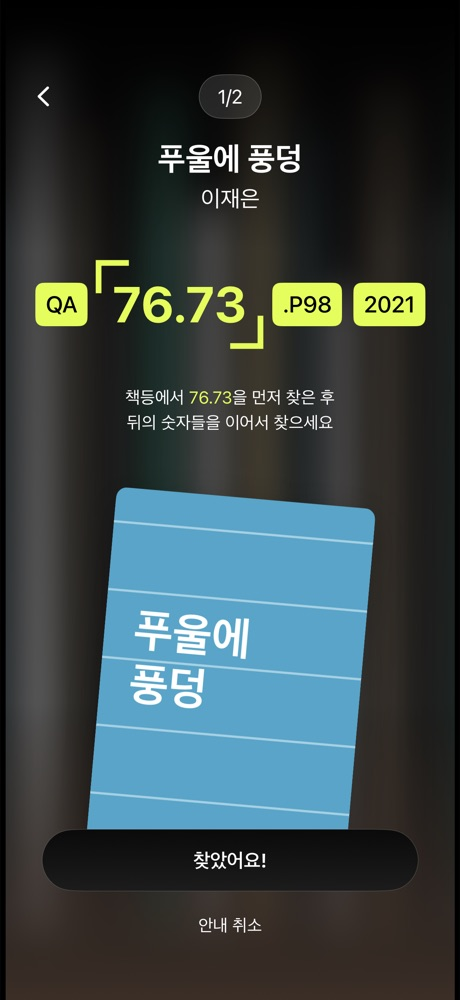
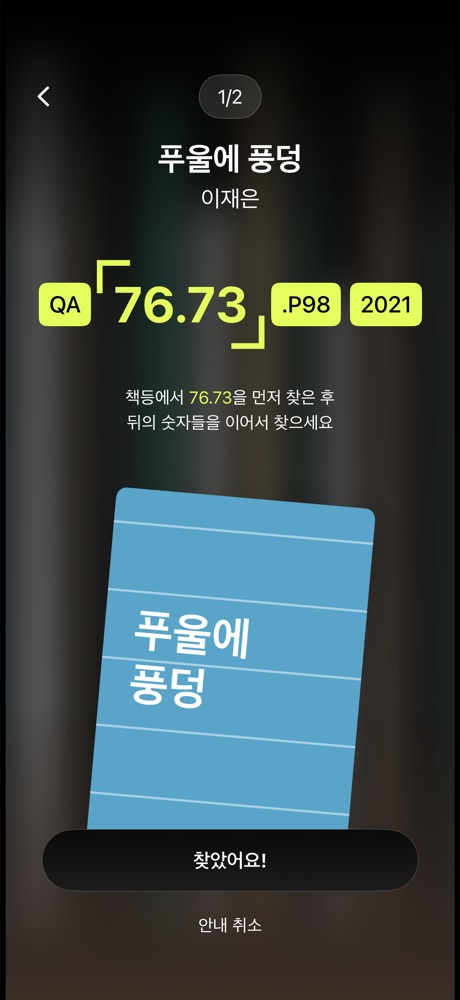
fix(ui): 도착 청구기호 가로 배치 유지
Refs #133

Changed region(s): [[0.5478, 0.279, 0.9435, 0.341], [0.2739, 0.279, 0.5478, 0.341], [0.0609, 0.248, 0.2435, 0.341]]

diff --git a/IndoorMapTests/BookNavigationArrivalScreenTests.swift b/IndoorMapTests/BookNavigationArrivalScreenTests.swift
@@ -40,29 +40,40 @@ extension IndoorMapSerialTests {
             }
             try image.pngData()?.write(to: FileManager.default.temporaryDirectory
                 .appendingPathComponent("issue133-\(scenario).png"))
-            let text = try await recognizedText(image)
+            let regions = try await recognizedText(image)
+            let text = regions.map(\.text).joined()
             #expect(text.contains("찾았어요"))
             if scenario == "missing" {
                 #expect(text.contains("청구기호확인필요"))
                 #expect(text.contains("367-A"))
-            } else if scenario != "large-text", scenario != "last" {
-                #expect(text.contains("76.73"))
-                #expect(text.contains("P98"))
-                #expect(text.contains("2021"))
+            } else if scenario != "last" {
+                let markers = ["76.73", "P98", "2021"]
+                let centers = try markers.map { marker in
+                    try #require(regions.first { $0.text.contains(marker) }, "청구기호의 \(marker)가 표시되어야 합니다").bounds.midY
+                }
+                #expect(try #require(centers.max()) - #require(centers.min()) < 0.025,
+                        "청구기호의 모든 요소가 같은 가로줄에 있어야 합니다")
             }
             if isMultiple { #expect(text.contains(scenario == "last" ? "2/2" : "1/2")) }
             else { #expect(!text.contains("1/1")) }
         }
 
         @concurrent
-        private func recognizedText(_ image: UIImage) async throws -> String {
+        private func recognizedText(_ image: UIImage) async throws -> [RecognizedRegion] {
             let request = VNRecognizeTextRequest()
             request.recognitionLevel = .accurate
             request.recognitionLanguages = ["ko-KR", "en-US"]
             request.usesLanguageCorrection = false
             try VNImageRequestHandler(cgImage: #require(image.cgImage), options: [:]).perform([request])
-            return String((request.results ?? []).compactMap { $0.topCandidates(1).first?.string }.joined()
-                .filter { !$0.isWhitespace })
+            return (request.results ?? []).compactMap { observation in
+                guard let value = observation.topCandidates(1).first?.string else { return nil }
+                return RecognizedRegion(text: String(value.filter { !$0.isWhitespace }), bounds: observation.boundingBox)
+            }
+        }
+
+        private struct RecognizedRegion: Sendable {
+            let text: String
+            let bounds: CGRect
         }
 
         /// 네트워크 없이 표지의 로딩·비율·회전을 확인하는 테스트 전용 이미지다.

diff --git a/fingerprint-library/Features/IndoorMap/BookNavigationArrivalView.swift b/fingerprint-library/Features/IndoorMap/BookNavigationArrivalView.swift
@@ -128,6 +128,8 @@ struct BookNavigationArrivalView: View {
                         Text(rawValue)
                             .font(.title2.bold())
                             .foregroundStyle(BookNavigationPalette.accent)
+                            .lineLimit(1)
+                            .minimumScaleFactor(0.4)
                             .fixedSize(horizontal: false, vertical: true)
                     }
                 }
@@ -138,21 +140,13 @@ struct BookNavigationArrivalView: View {
     }
 
     private func callNumber(_ number: BookNavigationArrivalCallNumber) -> some View {
-        ViewThatFits(in: .horizontal) {
-            HStack(spacing: 10) {
-                chip(number.classification)
-                highlightedNumber(number.number)
-                suffixChips(number)
-            }
-            .fixedSize(horizontal: true, vertical: false)
-            VStack(spacing: 12) {
-                chip(number.classification)
-                highlightedNumber(number.number)
-                    .minimumScaleFactor(0.5)
-                    .lineLimit(1)
-                suffixChips(number)
-            }
+        HStack(spacing: 8) {
+            chip(number.classification)
+            highlightedNumber(number.number)
+            suffixChips(number)
         }
+        .lineLimit(1)
+        .minimumScaleFactor(0.4)
         .accessibilityElement(children: .ignore)
         .accessibilityLabel("청구기호 \(number.rawValue)")
     }

diff --git a/Docs/BookNavigationArrival.md b/Docs/BookNavigationArrival.md
@@ -7,7 +7,7 @@
 - 사용자가 확인한 문구에 따라 중간 책도 **찾았어요!**로 표시한다. 중간 책은 기존 `onContinue`, 마지막 책은 기존 `onFinish`로 연결한다.
 - 중간 책의 안내 취소는 하단 보조 버튼으로 배치한다. 뒤로가기는 진행 중인 길안내 화면으로 복귀한다.
 - 청구기호는 `BookNavigationBookInfo`가 현재 서가와 대조한 소장본만 사용한다. 형식이 다르면 원문을 표시하고, 정보가 없으면 확인 필요 상태를 표시한다.
-- 긴 정보·작은 화면·큰 글씨에서는 세로 배치와 스크롤로 모든 정보를 확인할 수 있다. 하단 행동 버튼은 고정한다.
+- 청구기호의 분류·숫자·나머지 기호는 작은 화면과 큰 글씨에서도 한 가로줄을 유지하며 너비에 맞게 글자를 축소한다. 나머지 긴 정보는 세로 스크롤로 확인한다. 하단 행동 버튼은 고정한다.
 
 서가 배경은 원본 사진 에셋이 제공되지 않아 SwiftUI Canvas로 책등을 그리고 흐림·그라디언트를 적용했다.
 표지는 기존 `BookCoverView`를 사용한다. 아래 캡처의 파란 표지는 외부 네트워크 없이 검증하기 위해 그린 **테스트 전용 이미지**다.
@@ -16,13 +16,15 @@
 | --- | --- |
 | ![단권](Screenshots/BookNavigationArrival/single.jpg) | ![여러 권](Screenshots/BookNavigationArrival/multiple.jpg) |
 
+[320pt 너비에서도 유지되는 가로 배치](Screenshots/BookNavigationArrival/compact.jpg)
+
 ## 검증
 
 iPhone 18 Pro / iOS 27.0 시뮬레이터에서 확인했다.
 
 - `BookNavigationArrivalCallNumberTests`: 분류·숫자·나머지 기호 보존 5건, 구조를 알 수 없는 값 5건.
 - `BookNavigationBookInfoTests`: 서가별 소장본 필터링, 누락 정보, 유효하지 않은 인덱스 3개 테스트.
-- `BookNavigationArrivalScreenTests`: 단권, 중간, 마지막, 청구기호 누락, 320×568, 접근성 글씨 크기 6개 상태의 렌더링·문자 표시 확인.
+- `BookNavigationArrivalScreenTests`: 단권, 중간, 마지막, 청구기호 누락, 320×568, 접근성 글씨 크기 6개 상태의 렌더링·문자 표시 확인. 분류 숫자와 뒤 기호의 렌더링 좌표를 비교해 같은 가로줄에 표시되는지도 검사한다.
 - `BookNavigationFeatureTests`와 `BookNavigationLibraryGuidanceTests`: 다음 책·완료·취소·위치 안내 회귀 16개 테스트 통과.
 
 전체 기본 스킴은 이번에 수정하지 않은 `BookDetailTests/BookBasketIsolationTests.swift:20,26`의
